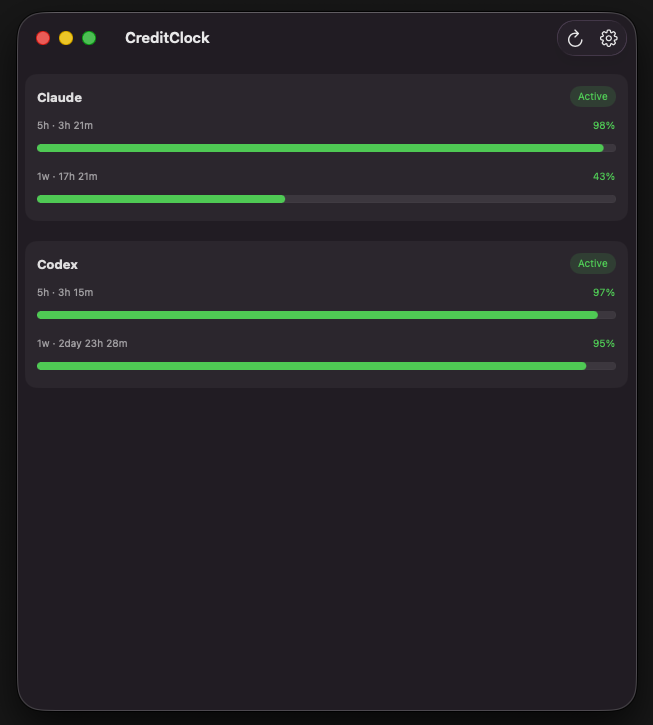
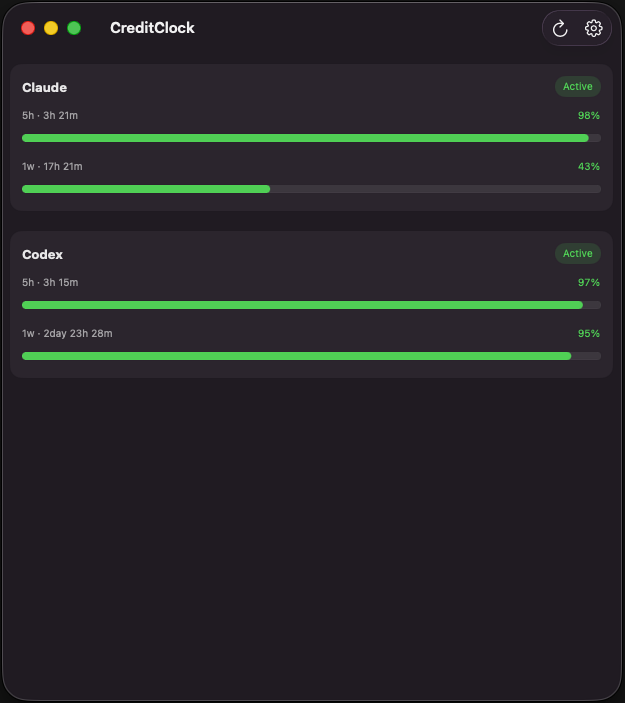
docs: polish marketing screenshots for README

diff --git a/README.ko.md b/README.ko.md
@@ -18,15 +18,15 @@
 ## 스크린샷
 
 <p align="center">
-  <img src="./docs/images/creditclock-app-main.png" width="640" alt="CreditClock 메인 데스크탑 앱" />
+  <img src="./docs/images/creditclock-app-main.png" width="620" alt="CreditClock 메인 데스크탑 앱" />
 </p>
 
 <p align="center">
-  <img src="./docs/images/creditclock-widget-large.png" width="340" alt="CreditClock 위젯" />
+  <img src="./docs/images/creditclock-widget-large.png" width="330" alt="CreditClock 위젯" />
 </p>
 
 <p align="center">
-  <img src="./docs/images/creditclock-showcase.png" width="520" alt="CreditClock 쇼케이스" />
+  <img src="./docs/images/creditclock-showcase.png" width="470" alt="CreditClock 쇼케이스" />
 </p>
 
 ## CreditClock로 할 수 있는 것

diff --git a/README.md b/README.md
@@ -18,15 +18,15 @@
 ## Screenshots
 
 <p align="center">
-  <img src="./docs/images/creditclock-app-main.png" width="640" alt="CreditClock main desktop app" />
+  <img src="./docs/images/creditclock-app-main.png" width="620" alt="CreditClock main desktop app" />
 </p>
 
 <p align="center">
-  <img src="./docs/images/creditclock-widget-large.png" width="340" alt="CreditClock widget" />
+  <img src="./docs/images/creditclock-widget-large.png" width="330" alt="CreditClock widget" />
 </p>
 
 <p align="center">
-  <img src="./docs/images/creditclock-showcase.png" width="520" alt="CreditClock showcase" />
+  <img src="./docs/images/creditclock-showcase.png" width="470" alt="CreditClock showcase" />
 </p>
 
 ## What You Get
